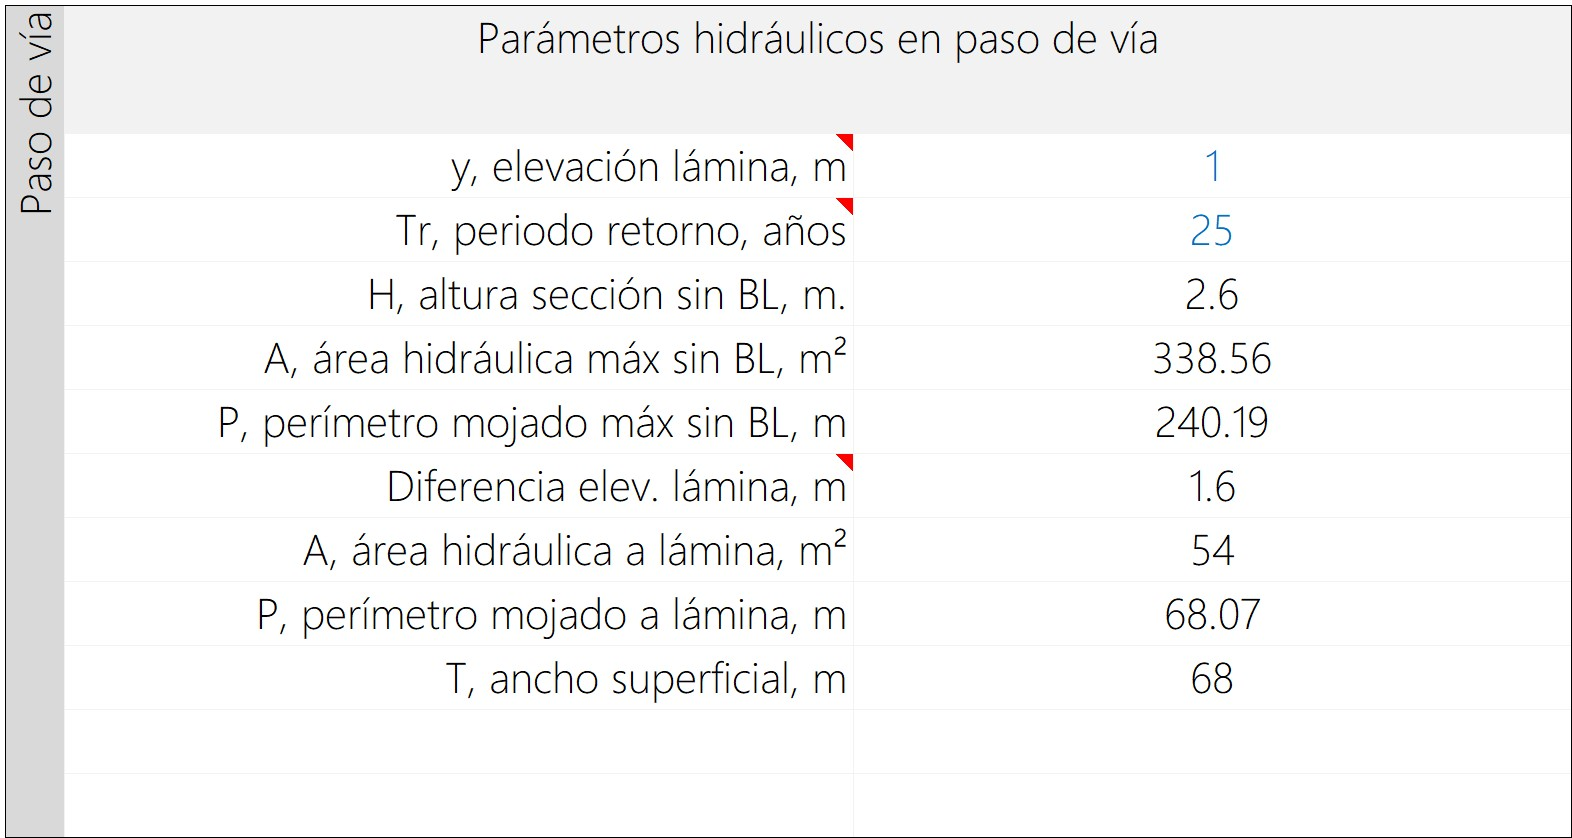
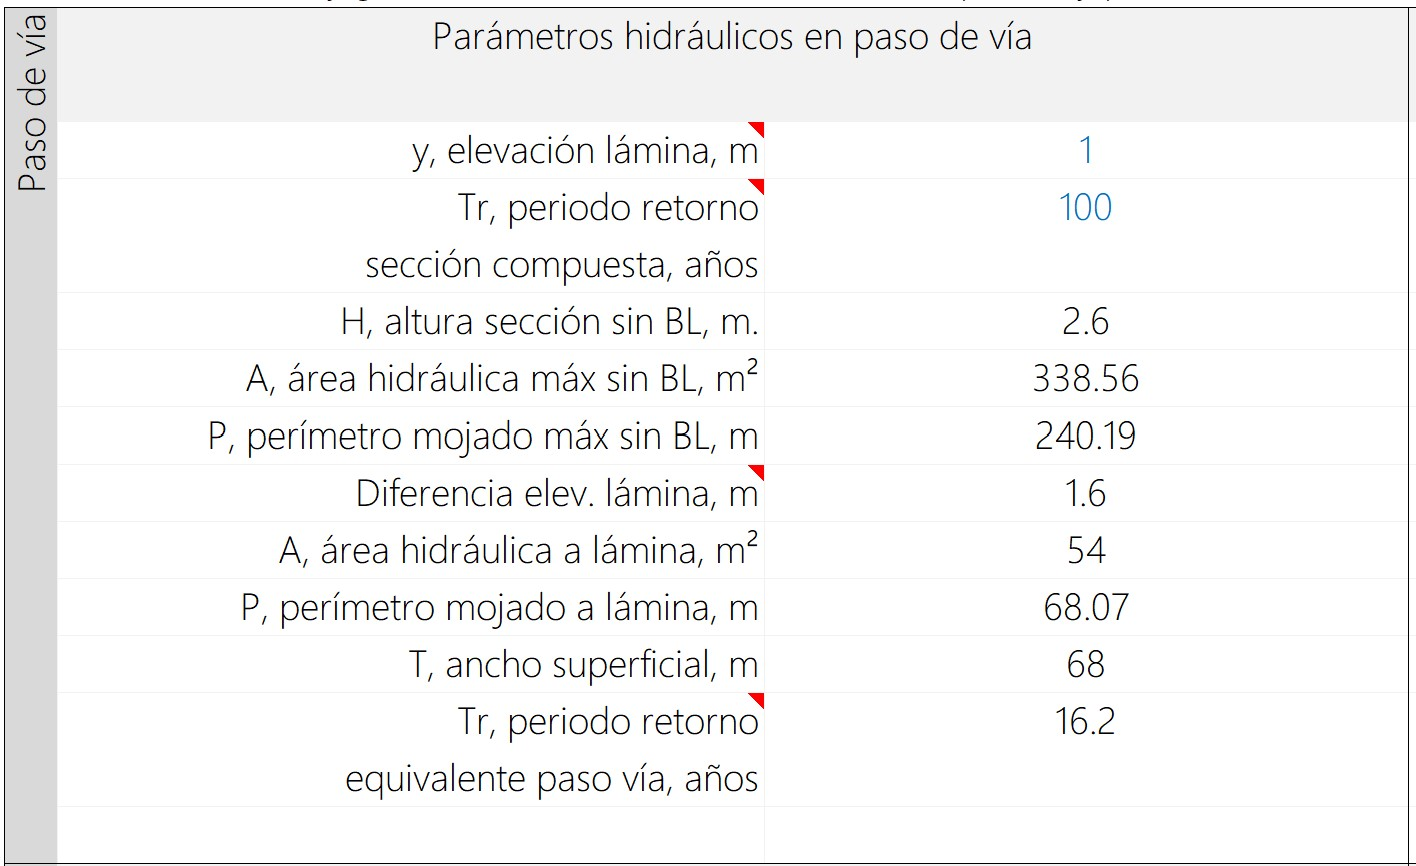
General update.

diff --git a/activity/M01A16/Readme.md b/activity/M01A16/Readme.md
@@ -49,9 +49,11 @@ Archivos, actividades previas, lecturas y herramientas requeridas para el desarr
 
 > :bulb: No es recomendable diseñar el paso de vía para transportar todo el flujo máximo del periodo de diseño de la sección compuesta correspondiente a 100 años. Considere que las tuberías podrán trabajar a presión y evite sobreanchos que requerirán el diseño de expansiones y contracciones.
 
-Para el diseño utilizaremos una altura de lámina de 1 metro y un periodo de 100 años, una vez ingresados los valores serán realizados diferentes cálculos hidráulicos.
+Para el diseño utilizaremos una altura de lámina de 1 metro y como referencia de diseño de la sección compuesta un periodo de 100 años, una vez ingresados los valores serán realizados diferentes cálculos hidráulicos.
 
 <div align="center"><img src="graph/R.HydroTools.DisenoPasoViaCanal.3.jpg" alt="R.SIGE" width="60%" border="0" /></div>
+
+> Al inicio del curso se definió el periodo de retorno para el diseño de las estructuras hidráulicas y pasos de vía, correspondiente a 25 años, sin embargo, este valor puede ser ajustado para mantener el ancho de la sección compuesta de diseño.
 
 3. Defina el diámetro de las alcantarillas principales y secundarias, para el caso de estudio utilizaremos tuberías de 2 metros (118") y 0.9144 metros (36"). Luego de clic en el botón `Resolver` que le permitirá calcular el número de tuberías requeridas. Inicialmente, obtendrá que son requeridas 7.333 tuberías principales y 48 secundarias, ajuste el valor a 7 tubos principales, así obtendrá que necesita 50 secundarias que equivalen a un área hidráulica de 54.83 m². 
 
@@ -59,8 +61,7 @@ Para el diseño utilizaremos una altura de lámina de 1 metro y un periodo de 10
 
 <div align="center"><img src="graph/R.HydroTools.DisenoPasoViaCanal.4.jpg" alt="R.SIGE" width="100%" border="0" /></div>
 
-
-
+> El periodo de retorno equivalente obtenido, correspondiente a 16.2 años para la altura de lámina definida podrá ser diferente si consideramos el flujo a superficie libre o el flujo en carga o a presión por las alcantarillas.
 
 4. Verifique el gráfico de sección, si en el diseño decidió que el ancho del paso de vía debe ser igual al ancho de la sección, las secciones compuestas deben ser similares.
 
@@ -68,7 +69,9 @@ Para el diseño utilizaremos una altura de lámina de 1 metro y un periodo de 10
 
 > El gráfico de sección permite además conocer la localización de las tuberías, sus coronas y bateas, además de la línea que representa la altura de lámina de agua a superficie libre. Asegúrese de que las cotas clave de las tuberías se encuentran bajo la altura máxima de la sección.
 
-En caso de que haya decidido diseñar la sección 
+En caso de que haya decidido diseñar la sección del paso de vía con sobre ancho para un periodo de retorno igual a 25 años, obtendrá una sección como la mostrada en la siguiente ilustración.
+
+
 
 
 
